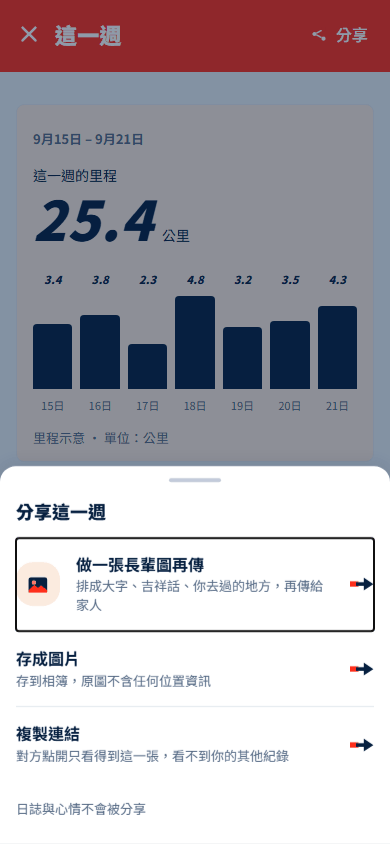
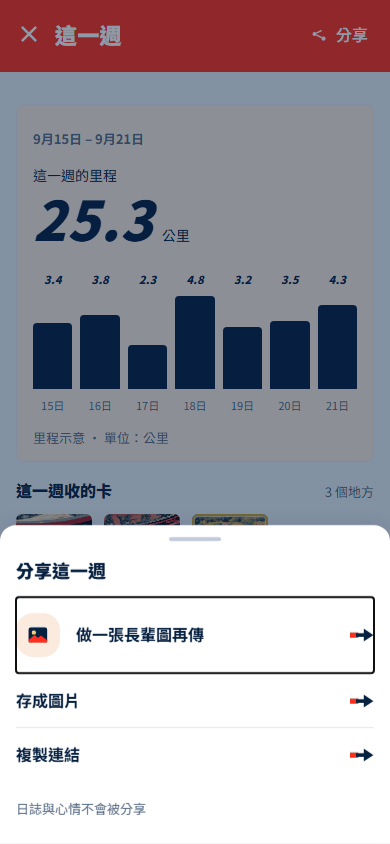
style: 分享選單每格只留標題，拿掉各格底下的說明小字
傳到 LINE、做長輩圖、存成圖片、複製連結四格的副標都刪掉，
說明只剩底部「日誌與心情不會被分享」那一句（依使用者要求減字）。

diff --git a/app/js/views/system.js b/app/js/views/system.js
@@ -221,13 +221,13 @@ function share(opt) {
   const title = opt.title ||
     (opt.kind === 'postcard' ? '分享這張明信片' : opt.kind === 'week' ? '分享這一週' : '分享');
 
-  /* [data-act, 標題, 說明, 圖示（家人那兩格才有）] */
+  /* [data-act, 標題, 圖示（家人那兩格才有）]：每格只留標題，說明只剩底部那一句 */
   const rows = [].concat(
-    oneTap ? [['share-line', '傳到 LINE 給家人', '一鍵傳到「家人」群組，只傳這一張（示意，不會真的送出）', 'share']] : [],
+    oneTap ? [['share-line', '傳到 LINE 給家人', 'share']] : [],
     [
-      ['share-family', '做一張長輩圖再傳', '排成大字、吉祥話、你去過的地方，再傳給家人', 'elder'],
-      ['share-save', '存成圖片', '存到相簿，原圖不含任何位置資訊'],
-      ['share-link', '複製連結', '對方點開只看得到這一張，看不到你的其他紀錄'],
+      ['share-family', '做一張長輩圖再傳', 'elder'],
+      ['share-save', '存成圖片'],
+      ['share-link', '複製連結'],
     ]);
 
   const scrim = document.createElement('div');
@@ -243,10 +243,9 @@ function share(opt) {
       '<div class="sharesheet__t">' + esc(title) + '</div>' +
       rows.map(function (r) {
         return '<button class="row-nav" type="button" data-act="' + r[0] + '">' +
-          (r[3] ? '<span class="tile-icon tile-icon--md"><span data-icon="' + r[3] + '" class="sys-ico"></span></span>' : '') +
+          (r[2] ? '<span class="tile-icon tile-icon--md"><span data-icon="' + r[2] + '" class="sys-ico"></span></span>' : '') +
           '<span class="row-nav__body">' +
             '<span class="row-nav__title">' + r[1] + '</span>' +
-            '<span class="row-nav__sub">' + r[2] + '</span>' +
           '</span><span class="arrow"></span></button>';
       }).join('') +
       '<div class="sharesheet__note">日誌與心情不會被分享</div>' +
